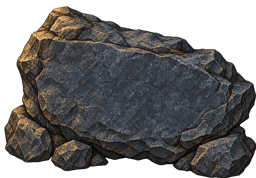
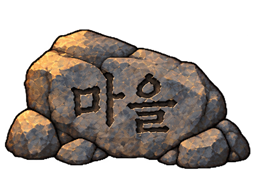
art: apply approved ink and carved lettering to every waypoint

diff --git a/src/draw.c b/src/draw.c
@@ -141,6 +141,12 @@ bool gfx_load(Gfx *g, SDL_Renderer *renderer, const char *root) {
         SDL_Log("Invalid waypost asset %s",path);gfx_free(g);return false;
     }
     SDL_SetTextureScaleMode(g->waypost.texture,SDL_ScaleModeLinear);
+    asset_path(path,sizeof path,root,"maps/waypost-boards.png");
+    g->waypost_boards=load_picture(g,path);
+    if(!g->waypost_boards.texture || g->waypost_boards.w!=1152 || g->waypost_boards.h!=100) {
+        SDL_Log("Invalid waypost board atlas %s",path);gfx_free(g);return false;
+    }
+    SDL_SetTextureScaleMode(g->waypost_boards.texture,SDL_ScaleModeLinear);
     asset_path(path,sizeof path,root,"maps/cave-waystone.png");
     g->cave_waystone=load_picture(g,path);
     if(!g->cave_waystone.texture || g->cave_waystone.w!=256 || g->cave_waystone.h!=178) {
@@ -217,6 +223,8 @@ bool gfx_load(Gfx *g, SDL_Renderer *renderer, const char *root) {
     return true;
 }
 void gfx_free(Gfx *g) {
+    if(g->waypost_boards.texture) SDL_DestroyTexture(g->waypost_boards.texture);
+    g->waypost_boards=(Picture){0};
     if(g->cave_waystone.texture) SDL_DestroyTexture(g->cave_waystone.texture);
     g->cave_waystone=(Picture){0};
     if(g->waypost.texture) SDL_DestroyTexture(g->waypost.texture);
@@ -968,33 +976,15 @@ static Vec2 waypost_pos(int index) {
     return (Vec2){MAP_EXITS[index].pos.x+offsets[index].x,
                   MAP_EXITS[index].pos.y+offsets[index].y};
 }
-static void waypost_text(Gfx *f,const char *name,SDL_FRect box,float size,SDL_Color ink) {
-    int face=f->face;
-    f->face=0; /* Nanum Myeongjo Bold: clear Korean strokes at phone scale. */
-    gfx_label(f,name,box,size,ink);
-    box.x+=.6f;
-    gfx_label(f,name,box,size,ink);
-    f->face=face;
-}
 static void waypost(Gfx *f,int index,Vec2 camera) {
     Vec2 p=screen_pos(waypost_pos(index),camera);
     if(index==3) {
         SDL_FRect rock={p.x-69,p.y-92,138,96};
         SDL_RenderCopyF(f->renderer,f->cave_waystone.texture,NULL,&rock);
-        SDL_FRect text={rock.x+27,rock.y+32,84,33};
-        waypost_text(f,game_map_name(MAP_EXITS[index].to),
-                     (SDL_FRect){text.x+1,text.y+1,text.w,text.h},28,(SDL_Color){27,28,29,255});
-        waypost_text(f,game_map_name(MAP_EXITS[index].to),text,28,(SDL_Color){238,225,194,255});
-        SDL_Color chalk={224,212,184,255};
-        for(int i=0;i<2;i++) {
-            gfx_line(f,(Vec2){p.x+i,p.y-23},(Vec2){p.x+i,p.y-13},chalk);
-            gfx_line(f,(Vec2){p.x-5+i,p.y-18},(Vec2){p.x+i,p.y-13},chalk);
-            gfx_line(f,(Vec2){p.x+5+i,p.y-18},(Vec2){p.x+i,p.y-13},chalk);
-        }
         return;
     }
-    /* Widen the authored board independently; retain the post's proportions. */
-    SDL_Rect board={70,50,170,52};
+    /* Approved names are painted into each wooden board, never overlaid as UI text. */
+    SDL_Rect board={index*384,0,384,100};
     SDL_FRect plate;
     if(index==1) {
         /* Mount just the board on the village's existing eastern lamp post. */
@@ -1008,9 +998,7 @@ static void waypost(Gfx *f,int index,Vec2 camera) {
         SDL_RenderCopyF(f->renderer,f->waypost.texture,&bottom,&lower);
         plate=(SDL_FRect){r.x+41.5f,r.y+28,146,38};
     }
-    SDL_RenderCopyF(f->renderer,f->waypost.texture,&board,&plate);
-    waypost_text(f,game_map_name(MAP_EXITS[index].to),
-                 (SDL_FRect){plate.x+5,plate.y+1,122,35},26,(SDL_Color){38,24,13,255});
+    SDL_RenderCopyF(f->renderer,f->waypost_boards.texture,&board,&plate);
 }
 void gfx_world(Gfx *f, const Game *g, float w, float h, Vec2 camera, bool has_target,
                Vec2 target) {

diff --git a/src/draw.h b/src/draw.h
@@ -46,7 +46,7 @@ typedef struct {
 typedef struct {
     SDL_Renderer *renderer;
     Picture map, hero, hero_walk, hero_attack, messenger, boss, boar, npcs, prologue[3];
-    Picture locations[3], waypost, cave_waystone;
+    Picture locations[3], waypost, waypost_boards, cave_waystone;
     Picture *active_map;
     Picture hero_techniques[TECH_COUNT];
     Picture hero_idle_directions, hero_walk_directions[HERO_DIRECTIONS];

diff --git a/docs/MAP_WAYPOINTS.md b/docs/MAP_WAYPOINTS.md
@@ -1,29 +1,29 @@
-# 길목 이정표와 열린 동쪽 출구 · 2026-10-28
+# 승인된 지역별 길목 표식 · 2026-10-28
 
-마을→탐식굴 길의 닫힌 문처럼 보이는 그림을 열린 흙길로 고치고 원형 이동 표식을 물리적인 길안내 소품으로 바꿨다. PR #47 사용자 검토 후 작은 글씨, 동쪽 소품 중복과 동굴의 나무 이정표를 다시 수정했다.
+동쪽 길이 닫힌 문처럼 보이는 배경과 원형 이동 표식을 수정한 PR #47에서 사용자 검토를 반영했다. 사용자는 나무와 바위에 맞는 글씨 질감, 투박한 음각, 화살표/채색 제거, 주변 동굴과 같은 돌결을 검토한 뒤 동일한 처리를 다른 이정표에도 적용하도록 승인했다. 승인 후 추가 확인 없이 반영하고 별도 인게임 테스트를 생략하는 요청을 따른다.
 
-## 최종 동작과 변경 파일
+## 최종 적용
 
-- `assets/maps/village.png`: 동쪽 길의 ImageGen 부분 편집. 35,172픽셀 변경, x1330..1535/y545..719 밖 0픽셀 변경. 이번 검토 수정에서 배경 자체는 더 바꾸지 않았다.
-- `src/draw.c/h`, `assets/maps/waypost.png`: 나무 방향판을 기둥 비율과 별도로 넓혀 목적지 글자를 16 붓글씨에서 굵은 명조 26으로 키웠다. 0.6 단위 덧그리기로 획을 보강한다. 텍스트 영역도 83×21에서 122×35로 넓혀 자동 축소를 줄였다.
-- 마을 북쪽/솔바람재 귀환은 나무 이정표, 마을 동쪽은 **배경의 기존 등주에 방향판만 부착**한다. 별도 기둥과 등롱을 추가하지 않아 배경 소품과 중첩하지 않는다.
-- `assets/maps/cave-waystone.png`: 탐식굴의 나무 소품은 제거하고 입구 왼쪽 바위와 맞는 낮은 청회색 표지석으로 바꿨다. 표면에 크기 28의 밝고 굵은 ‘마을’ 글자와 작은 아래 화살표를 표시한다. 새 RGBA 텍스처 로드/실패 검사/해제를 연결했다.
-- `src/maps.c`, `art/maps/layout.json`: 동쪽 기존 등주와 동굴 표지석 위치에 맞춰 두 충돌 footprint를 갱신했다. 출구 판정·거리·도착 좌표·상호작용 버튼/Space·퀘스트·전투 규칙은 그대로다. 발 위치 순서로 그린다.
-- `src/main.c`: `--scene exit0`..`exit3`은 마을→솔바람재, 마을→탐식굴, 솔바람재→마을, 탐식굴→마을을 출력한다.
+| 위치 | 최종 표시 |
+| --- | --- |
+| 마을 북쪽 → 솔바람재 | 나뭇결에 스며든 먹 붓글씨 ‘솔바람재’와 기존 나무 기둥 |
+| 마을 동쪽 → 탐식굴 | 기존 배경 등주에 부착한 먹 붓글씨 ‘탐식굴’ 방향판 |
+| 솔바람재 → 마을 | 같은 재질·붓맛·여백의 ‘마을’ 나무 방향판 |
+| 탐식굴 → 마을 | 주변 암벽과 같은 큰 면의 청회색 바위, 정으로 쪼아낸 투박한 ‘마을’ 음각. 채색과 화살표 없음 |
 
-## 실제 검증
+`src/draw.c/h`는 이름을 폰트로 덧그리던 함수와 바위 화살표를 제거하고 `assets/maps/waypost-boards.png`의 세 셀 및 `cave-waystone.png`를 표시한다. 글씨가 재질과 함께 그려져 별도로 튀어나오지 않는다. 나무 기둥/기존 동쪽 등주 배치, 전환 지점·판정·도착 위치, 밑돌 충돌, NPC/몬스터/의뢰/전투/조작 규칙은 이번 승인 적용에서 변경하지 않았다.
 
-사용자 검토 반영 후 Windows / Zig 0.14.1 / SDL 2.32.10 전체 빌드 성공, CTest **12/12 통과 (15.92초)**. 수정된 소품 충돌을 포함한 왕복·의뢰 전체 흐름·자원 보존·실제 SDL 입력과 기존 전투/수련/UI/주인공·몬스터 렌더를 재검사했다. 네 출구를 844×390과 1280×720으로 각각 실행 출력하고 글자 가독성·소품 배치를 검토했다.
+마을 PNG의 동쪽 길 부분 수정은 이 PR의 앞선 범위다. 변경 35,172픽셀, 지정 사각형 밖 0픽셀이라는 기존 기록을 유지하며 이번 재질 적용에서 배경 원본을 더 수정하지 않았다.
 
-- [최종 네 출구 실제 SDL 화면](waypoint-review.png)
-- [동쪽 길·동굴 이전/수정 비교](waypoint-revision-comparison.png)
-- [이번 최종 테스트 로그](waypoint-validation.txt)
-- [원화·준비 기록](../art/maps/waypoints-20261028/README.md), [출처/해시](../art/maps/provenance.json)
+## 원화와 준비
 
-이전 커밋 `66e2340`의 CI #122는 네이티브·일반/단일 HTML 웹 빌드 성공이었다. 이번 변경의 원격 결과는 PR 최신 커밋 CI에서 별도로 확인한다. 실기기 iPhone/Android·실제 브라우저 입력·APK·장시간 성능은 미검증이다.
+[승인 이미지 시안](../art/maps/waypoints-20261028/approved-material-review.png)은 이미지 편집 검토용으로, 최종 게임 실행 화면이 아니다. [투명 에셋 원본](../art/maps/waypoints-20261028/approved-material-atlas.png), [준비 기록](../art/maps/waypoints-20261028/approved-preparation.json), [출처/해시](../art/maps/provenance.json)에 근거를 남겼다. 세 이름이 정확한지 시각 확인했고 알파 경계·셀 크기를 검사했다. 준비 스크립트는 `scripts/prepare_approved_waypoints.ps1`이다.
 
-## 복구와 경계
+## 이번 검증과 승인
 
-동굴 원화는 예상 1280과 달리 1254×1254였다. 준비 스크립트가 잘못된 크기에서 중단되어 실제 IHDR을 확인하고 정규화 크롭으로 수정했다. 첫 전체 빌드는 실행 시간 제한으로 링크 일부가 남았고 증분 빌드로 완료한 후 전체 테스트를 실행했다. 제품 소스 오류를 감추거나 중간 결과를 성공으로 기록하지 않았다.
+- Windows / Zig 0.14.1 / SDL 2.32.10: `cmake --build build-maps-host --target paldo-yadam --parallel 2` 성공. [빌드 기록](waypoint-material-build.txt).
+- 사용자 요청에 따라 이번에는 로컬 게임 실행·SDL 스모크 출력·CTest·브라우저/실기기 플레이 테스트를 추가로 수행하지 않았다. 자동 CI의 기존 네이티브 검사/웹/단일 HTML 빌드·배포 워크플로는 변경하지 않는다.
+- 이전 커밋 `9253a68`의 12/12 및 CI #123 성공은 이전 명조/화살표 단계의 결과이며 이번 승인 적용 결과로 대체 표시하지 않는다. 기존 [검토 중간 화면](waypoint-review.png)과 [이전 로그](waypoint-validation.txt)도 과거 단계다. 최신 원격 결과는 PR #47 및 해당 커밋의 Actions 기록으로 확인한다.
+- 사용자는 이미지 승인 후 바로 적용하도록 요청했고, 최신 시안 및 다른 이정표의 동일 처리를 승인했다. 이에 따라 PR #47 main 병합과 자동 Pages 반영을 진행한다. 실제 병합 SHA/배포 결과는 [PR #47](https://github.com/yousay0526-sudo/Paldoyadam/pull/47)과 [main 배포 기록](https://github.com/yousay0526-sudo/Paldoyadam/actions/workflows/web.yml?query=branch%3Amain)에 기록한다.
 
-GAME_BIBLE.md는 없어 생성하지 않았다. 일반 적 재등장 등 다른 독립 작업·정식 버전 변경·main 병합·배포 없음.
+실제 휴대폰 조작·브라우저 플레이·장시간 성능은 미검증이다. GAME_BIBLE.md는 없어 생성하지 않았다. 정식 버전/워크플로/새 독립 기능 변경 없음.

diff --git a/CURRENT_STATE.md b/CURRENT_STATE.md
@@ -8,6 +8,14 @@
 - 정본: `src/*.c`, `src/*.h`; 주요 문서: `README.md`, `docs/CONTROLS.md`, `docs/VALIDATION.md`, `docs/WEB.md`
 
 
+## 2026-10-28 · PR #47 재질 시안 승인 · 모든 이정표 적용/반영
+- 사용자가 최신 동굴 일체감 시안을 승인하고 다른 이정표도 동일하게 게임에 넣도록 요청했다. 앞서 승인 시 추가 확인 없이 적용하고 별도 인게임 테스트를 생략하도록 요청했으므로 승인 범위에서 PR #47 병합·자동 Pages 반영을 진행한다.
+- `assets/maps/waypost-boards.png`: 솔바람재/탐식굴/마을 세 방향판에 나뭇결과 함께 먹 붓글씨를 포함했다. `cave-waystone.png`: 주변 동굴 암벽과 맞춘 큰 면의 거친 바위에 채색·화살표 없는 투박한 음각을 포함했다.
+- `src/draw.c/h`: 런타임 목적지 폰트와 바위 화살표를 제거하고 승인 재질 PNG를 표시한다. 세 나무 이정표에 동일한 원화 스타일·여백을 사용한다. 기존 배치/충돌/출입/조작/전투/의뢰는 이 승인 적용에서 보존한다.
+- 승인 시안·에셋 원본·준비 스크립트/좌표·해시를 `art/maps/waypoints-20261028/`와 provenance에 보존했다. 시안은 실제 최종 게임 캡처로 표시하지 않는다.
+- Windows 네이티브 게임 타깃 빌드 성공. 이번에는 요청대로 별도 로컬 게임 실행·스모크·CTest·브라우저 플레이를 하지 않았다. 기존 자동 CI는 유지하며 결과는 PR/Actions에서 확인한다. [현재 구현/검증](docs/MAP_WAYPOINTS.md).
+- 실제 병합 SHA와 Pages 결과는 [PR #47](https://github.com/yousay0526-sudo/Paldoyadam/pull/47) 및 main Actions 기록을 정본으로 삼는다. 실기기/장시간 성능 미검증. GAME_BIBLE.md 없음. 버전/새 독립 기능 변경 없음.
+
 ## 2026-10-28 · PR #47 사용자 검토 수정 · 가독성/동굴 표식
 - 글자가 작고 얇고, 마을 동쪽·동굴 나무 이정표가 배경과 어울리지 않는다는 피드백을 반영했다. 같은 PR/브랜치에서 수정하고 병합하지 않았다.
 - `src/draw.c/h`: 방향판 글자 영역 83×21→122×35, 붓글씨 16→굵은 명조 26 및 획 보강. 마을 동쪽은 기존 배경 등주에 방향판만 달아 별도 기둥/등롱 중복을 제거했다.

diff --git a/art/maps/waypoints-20261028/README.md b/art/maps/waypoints-20261028/README.md
@@ -13,3 +13,12 @@
 - 글자가 작고 얇다는 피드백에 따라 런타임 방향판만 넓히고 Nanum Myeongjo Bold 26, 동굴 표지석 28과 0.6 단위 덧그리기로 획을 보강했다. 글자 폭/높이 맞춤에서 16 크기 붓글씨가 작아지던 문제를 수정했다.
 - 마을 동쪽은 배경의 기존 등주에 방향판만 붙인다. 별도 나무 기둥·등롱을 중복 표시하지 않는다.
 - 동굴은 `cave-waystone-generated.png` (실제 1254×1254 RGBA)의 청회색 거친 바위로 교체했다. `scripts/prepare_cave_waystone.ps1`은 1280 기준 정규화 크롭을 실제 해상도에 비례 적용하여 256×178 RGBA를 만든다. 처음 1280×1280으로 가정한 준비 실행은 크기 검사에서 중단됐으며 실제 IHDR을 확인한 뒤 수정했다.
+
+## 승인 재질 최종 적용
+
+사용자가 최신 동굴 일체감 시안을 승인하고 다른 이정표도 동일하게 게임에 적용하도록 요청했다. 이전 요청에 따라 별도 로컬 인게임 테스트는 생략하고, 준비된 에셋 검사와 네이티브 빌드·기존 원격 CI를 확인한다.
+
+- `approved-material-review.png` (1785×881): 사용자가 승인한 이미지 시안. 실제 최종 게임 캡처로 표시하지 않는다.
+- `approved-material-atlas.png` (1774×887): 승인 시안을 참조해 ImageGen으로 준비한 세 나무판과 동굴 표지석. 목적지 이름을 그림에 포함해 런타임 폰트를 덧그리지 않는다.
+- `scripts/prepare_approved_waypoints.ps1`, `approved-preparation.json`: 알파 경계를 자르고 비율을 유지해 축소. `waypost-boards.png`는 1152×100, 왼쪽부터 384×100 셀에 솔바람재/탐식굴/마을. `cave-waystone.png`는 256×178, 마을 음각 포함·화살표/채색 없음.
+- 위의 이전 26/28 명조 및 화살표 구현 기록은 검토 중간 단계다. 최종 구현은 해당 텍스트/화살표 그리기를 제거하고 승인 재질 PNG를 표시한다.
